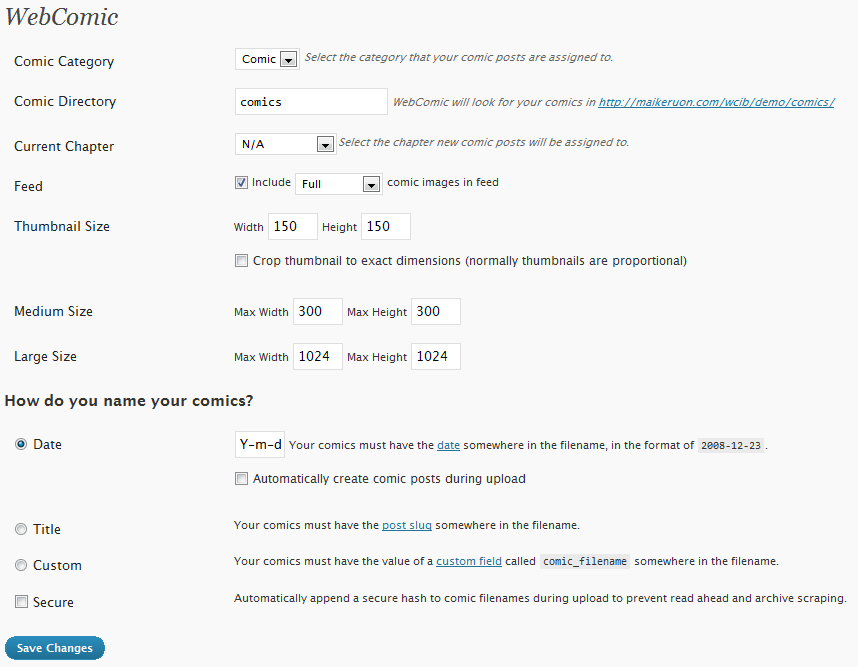
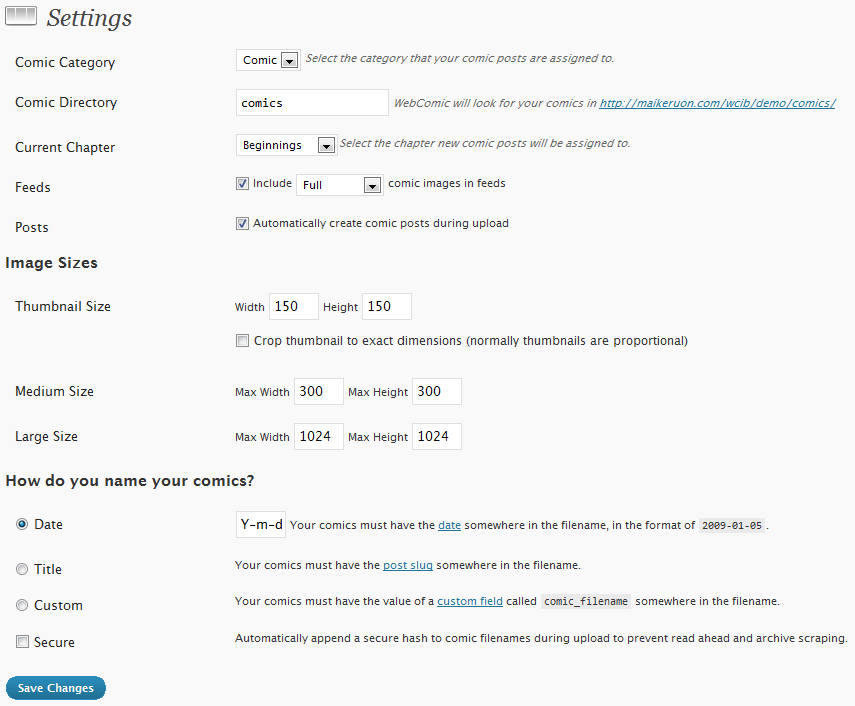
git-svn-id: https://plugins.svn.wordpress.org/webcomic/trunk@84403 b8457f37-d9ea-0310-8a92-e5e31aec5664

diff --git a/wc-admin-library.php b/wc-admin-library.php
@@ -229,7 +229,7 @@ function comic_page_library(){
 	if('regen_all_thumbs' == $_REQUEST['action']):
 		check_admin_referer('regen_all_thumbs');
 		
-		echo '<div id="message" class="updated fade"><p>'.__('Please wait while WebComic attempts to regenerate your comic thumbnails. This could take several minutes for large libraries.','webcomic').'</p></div>';
+		echo '<div id="message" class="updated fade"><p><img src="'.plugins_url('webcomic/load.gif').'" alt="Working..." /> '.__('Please wait while WebComic attempts to regenerate your comic thumbnails. This could take several minutes for large libraries.','webcomic').'</p></div>';
 		
 		//Get our comic and media options
 		$original_path = ABSPATH.get_comic_directory();
@@ -431,7 +431,8 @@ function comic_page_library(){
 		$comic_thumb = '<th scope="col" style="width:'.get_option('thumbnail_size_h').'px"></th>';
 ?>
 	<div class="wrap">
-		<h2>Comic Library</h2>
+		<div id="icon-webcomic" class="icon32"><img src="<?php echo plugins_url('webcomic/webcomic.png') ?>" alt="icon" /></div>
+		<h2><?php _e('Library','webcomic') ?></h2>
 		<form method="post" action="" enctype="multipart/form-data">
 			<?php wp_nonce_field('webcomic_upload'); ?>
 			<p class="alignleft">

diff --git a/wc-admin.php b/wc-admin.php
@@ -3,17 +3,19 @@
 function comic_admin_pages_add(){
 	load_webcomic_domain();
 	
-	add_menu_page(__('WebComic','webcomic'),__('WebComic','webcomic'),'manage_options', __FILE__,'comic_page_settings');
+	add_menu_page(__('WebComic','webcomic'),__('WebComic','webcomic'),'manage_options', __FILE__,'comic_page_settings',plugins_url('webcomic/webcomic-small.png'));
 	add_submenu_page(__FILE__,__('Settings','webcomic'),__('Settings','webcomic'),'manage_options',__FILE__,'comic_page_settings');
 	add_submenu_page(__FILE__,__('Comic Library','webcomic'),__('Library','webcomic'),'upload_files','comic-library','comic_page_library');
 	add_submenu_page(__FILE__,__('Comic Chapters','webcomic'),__('Chapters','webcomic'),'manage_categories','comic-chapters','comic_page_chapters');
+	
+	if(function_exists('add_meta_box'))
+		add_meta_box('webcomic', __('WebComic','webcomic'), 'comic_meta_box', 'post', 'normal', 'high');
 }
 add_action('admin_menu', 'comic_admin_pages_add');
 
 //Enqueue admin scripts for fancy effects
 function wc_admin_scripts() {
 	wp_enqueue_script('admin-forms');
-	//wp_enqueue_script('jquery-form');
 }
 add_action('admin_init','wc_admin_scripts');
 

diff --git a/wc-admin-chapters.php b/wc-admin-chapters.php
@@ -71,6 +71,7 @@ function comic_page_chapters(){
 	endif;
 ?>
 	<div class="wrap">
+		<div id="icon-webcomic" class="icon32"><img src="<?php echo plugins_url('webcomic/webcomic.png') ?>" alt="icon" /></div>
 <?php if('edit_chapter' == $_REQUEST['action']): $the_chapter = get_term_to_edit($_REQUEST['chapter'],'chapter'); //Show the edit chapter form ?>
 		<h2><?php _e('Edit Chapter','webcomic') ?></h2>
 		<form action="" method="post">
@@ -107,7 +108,7 @@ function comic_page_chapters(){
 			<p class="submit"><input type="submit" class="button" name="submit" value="<?php _e('Edit Chapter','webcomic') ?>" /><input type="hidden" name="action" value="update_chapter" /><input type="hidden" name="chapter_id" value="<?php echo $_REQUEST['chapter'] ?>" /></p> 
 		</form>
 <?php else: ?>
-		<h2><?php _e('Comic Chapters','webcomic') ?></h2>
+		<h2><?php _e('Chapters','webcomic') ?></h2>
 		<div id="col-right">
 			<div class="col-wrap">
 			<?php if(!get_the_collection(false)): ?>

diff --git a/webcomic.php b/webcomic.php
@@ -169,7 +169,7 @@ if(is_admin()):							   //Load tha admin files only when necessary
 	require_once('wc-admin-settings.php'); //Contains administrative functions for the settings page
 	require_once('wc-admin-library.php');  //Contains administrative functions for the library page
 	require_once('wc-admin-chapters.php'); //Contains administrative functions for the chapters page
-	@include_once('wc-admin-metabox.php'); //Contains administrative functions for the post meta box
+	require_once('wc-admin-metabox.php');  //Contains administrative functions for the post meta box
 endif;
 require_once('wc-core.php');               //Contains the core functions and template tags for displaying and navigating comics
 @include_once('wc-widgets.php');           //Contains widgits for recent comics, random comic, dropdown comics, comic archive, and modified recent posts

diff --git a/wc-admin-settings.php b/wc-admin-settings.php
@@ -62,7 +62,8 @@ function comic_page_settings(){
 	endif;
 ?>
 	<div class="wrap">
-		<h2><?php _e('WebComic','webcomic') ?></h2>
+		<div id="icon-webcomic" class="icon32"><img src="<?php echo plugins_url('webcomic/webcomic.png') ?>" alt="icon" /></div>
+		<h2><?php _e('Settings','webcomic') ?></h2>
 		<form method="post" action="">
 			<?php wp_nonce_field('webcomic_save_settings'); ?>
 			<table class="form-table">
